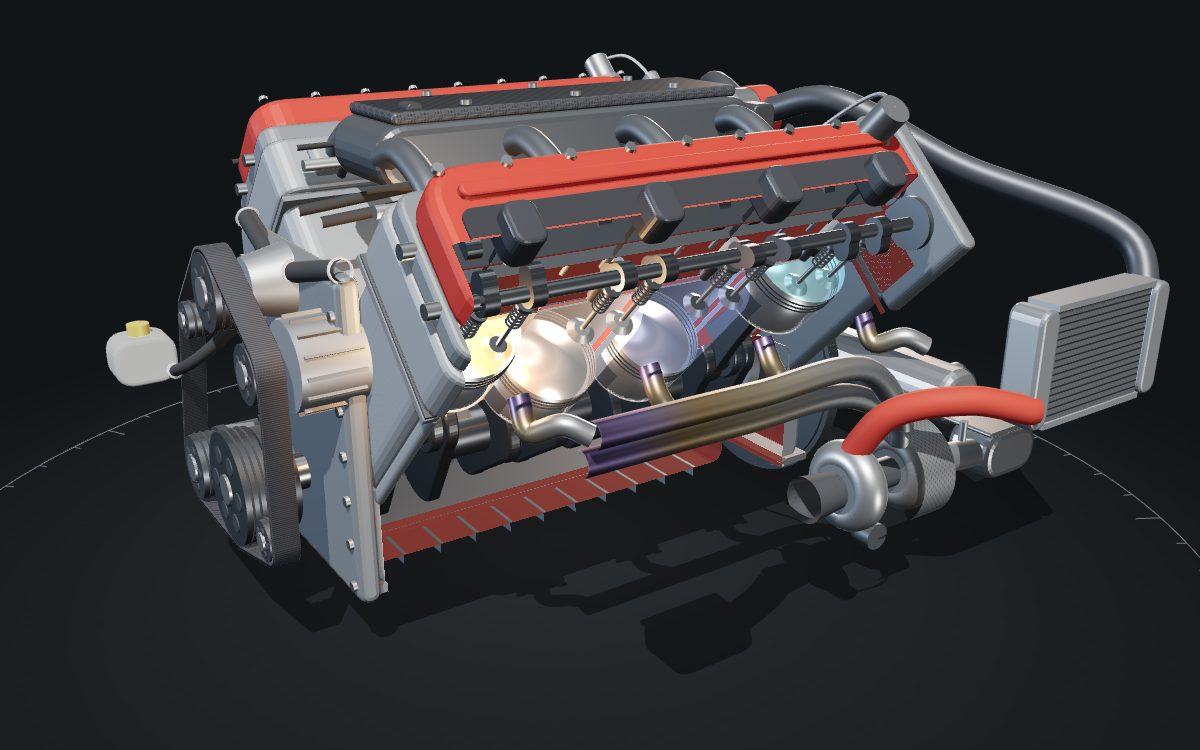
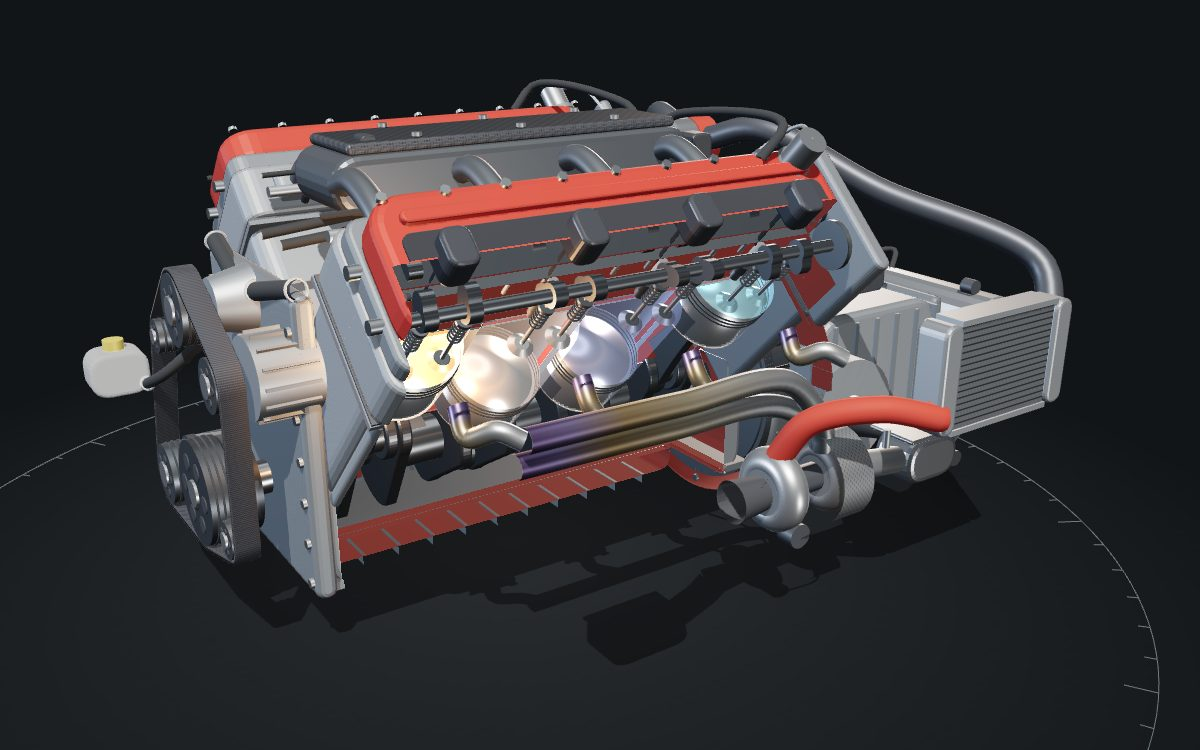
Ferrari V8: dual-clutch transaxle, cam-cover lettering, more plumbing
- 7-speed DCT casing with its own cutaway (bellhousing quarter removed to show
  the clutch pack), differential, CV shafts, hydraulic unit, oil cooler
- Raised FERRARI lettering on the red cam covers; coil harness moved inboard
- Crankcase breathers, rear coolant crossover, silencer moved behind the
  gearbox with bypass valves and twin tips
- New gearbox hotspot; flywheel view/anchor updated; wider home view
- ?debug also exposes the scene for inspection

Claude-Session: https://claude.ai/code/session_01M8DNzupjd5FubaaFBbkxo4

diff --git a/src/presentations/ferrari-v8/scene.ts b/src/presentations/ferrari-v8/scene.ts
@@ -225,7 +225,7 @@ export function buildFerrariV8({ gl, scene, quality = 'high' }: BuildContext): F
   key.position.set(-30, 70, 45);
   key.castShadow = true;
   key.shadow.mapSize.set(low ? 1024 : 2048, low ? 1024 : 2048);
-  Object.assign(key.shadow.camera, { left: -62, right: 62, top: 62, bottom: -62, near: 10, far: 200 });
+  Object.assign(key.shadow.camera, { left: -75, right: 75, top: 75, bottom: -75, near: 10, far: 220 });
   key.shadow.bias = -0.0004;
   key.shadow.normalBias = 0.04;
   root.add(key);
@@ -251,6 +251,14 @@ export function buildFerrariV8({ gl, scene, quality = 'high' }: BuildContext): F
     new THREE.Plane(V3(1, 0, 0), -XR),
   ]);
   const housing = sv.housing.bind(sv);
+  // gearbox: its own cut, the upper +z quarter of the bellhousing, to show the clutch pack
+  const svBox = new SectionView([
+    new THREE.Plane(V3(0, 0, -1), 0),
+    new THREE.Plane(V3(0, -1, 0), -1),
+    new THREE.Plane(V3(1, 0, 0), -33.5),
+    new THREE.Plane(V3(-1, 0, 0), 22),
+  ]);
+  const inBoxCut = (p: THREE.Vector3) => p.z > 0 && p.y > -1 && p.x < 33.5 && p.x > 22;
   const inCut = (p: THREE.Vector3) => p.y < p.z && p.z > 0 && p.x > -XF && p.x < XR;
 
   /* ---------- Materials ---------- */
@@ -274,6 +282,26 @@ export function buildFerrariV8({ gl, scene, quality = 'high' }: BuildContext): F
     plenum: st(std({ color: 0x3a3f44, metalness: 0.6, roughness: 0.42, bumpMap: castBump, bumpScale: 0.008 })),
     carbon: st(
       phys({ color: 0xffffff, map: carbonTex(), metalness: 0.25, roughness: 0.42, clearcoat: 1, clearcoatRoughness: 0.08 }),
+    ),
+    letters: st(
+      std({
+        color: 0xf2f2f0,
+        metalness: 0.55,
+        roughness: 0.22,
+        alphaMap: canvasTex(1024, 72, (x, w, h) => {
+          x.fillStyle = '#000';
+          x.fillRect(0, 0, w, h);
+          x.fillStyle = '#fff';
+          x.font = 'italic 700 62px Arial, Helvetica, sans-serif';
+          x.textAlign = 'center';
+          x.textBaseline = 'middle';
+          (x as CanvasRenderingContext2D & { letterSpacing: string }).letterSpacing = '28px';
+          x.fillText('FERRARI', w / 2, h / 2 + 2);
+        }),
+        alphaTest: 0.5,
+        polygonOffset: true,
+        polygonOffsetFactor: -2,
+      }),
     ),
     sump: st(std({ color: 0x6a7176, metalness: 0.6, roughness: 0.5, bumpMap: castBump, bumpScale: 0.01 })),
     machined: st(std({ color: 0xcfd3d6, metalness: 0.85, roughness: 0.28 })),
@@ -322,6 +350,7 @@ export function buildFerrariV8({ gl, scene, quality = 'high' }: BuildContext): F
     intercooler: [M.core, M.silicone],
     intake: [MS.plenum, MS.carbon],
     sump: [MS.sump],
+    gearbox: [] as THREE.MeshStandardMaterial[],
     belt: [M.belt, M.pulley, M.acc],
   };
 
@@ -516,6 +545,81 @@ export function buildFerrariV8({ gl, scene, quality = 'high' }: BuildContext): F
     mk.castShadow = false;
   }
   reg('fly', flyG);
+
+
+  /* ---------- 7-speed dual-clutch transaxle (Getrag 7DCL750 on the 488) ---------- */
+  const boxG = new THREE.Group();
+  root.add(boxG);
+  {
+    const gb = <M extends THREE.Material>(m: M) => {
+      m.clipIntersection = true;
+      svBox.material(m);
+      return m;
+    };
+    const case1 = gb(std({ color: 0x6d7479, metalness: 0.55, roughness: 0.55, bumpMap: castBump, bumpScale: 0.012 }));
+    const case2 = gb(std({ color: 0x4f565b, metalness: 0.55, roughness: 0.6, bumpMap: castBump, bumpScale: 0.012 }));
+    PART_MATS.gearbox.push(case1, case2);
+    const hb = (geo: THREE.BufferGeometry, mat: THREE.Material, x: number, y: number, z: number, cut = true) => {
+      const m = mesh(boxG, geo, mat, x, y, z);
+      if (cut) svBox.addBack(boxG, m);
+      return m;
+    };
+    // bellhousing: turned profile along x, open towards the engine
+    const prof = [
+      [12.9, 0],
+      [13.1, 0.6],
+      [12.8, 1.2],
+      [12.4, 4],
+      [11.6, 7],
+      [10.6, 9.6],
+      [10.2, 10.4],
+    ].map(([r, h]) => new THREE.Vector2(r, h));
+    hb(new THREE.LatheGeometry(prof, seg(56)).rotateZ(-PI / 2), case1, 22.8, 0, 0);
+    hb(cylX(10.4, 0.5, seg(56)), case1, 33.3, 0, 0);
+    // flange bolts to the block
+    const fb: BoltSpec[] = [];
+    for (let i = 0; i < 14; i++) {
+      const a = (i / 14) * PI * 2;
+      fb.push([23.6, 12.6 * Math.cos(a), 12.6 * Math.sin(a), 'x', 1]);
+    }
+    bolts(boxG, fb, MS.bolt);
+    // main case, differential bulge, rear cover
+    hb(rbox(19, 15, 16, 3, 0.8), case1, 43, -1.5, 0);
+    hb(cylZ(6.2, 21, seg(40)), case1, 36.6, -4.4, 0);
+    hb(rbox(1.6, 14, 15, 2.6, 0.5), case2, 53.2, -1.5, 0);
+    for (let i = 0; i < 6; i++) hb(new THREE.BoxGeometry(0.5, 13, 16.6), case2, 36 + i * 3.2, -1.5, 0, false);
+    const rb: BoltSpec[] = [];
+    for (let i = 0; i < 10; i++) {
+      const a = (i / 10) * PI * 2;
+      rb.push([54.1, -1.5 + 6 * Math.cos(a), 6.6 * Math.sin(a), 'x', 1]);
+    }
+    bolts(boxG, rb, MS.bolt);
+    // hydraulic shift / clutch control unit on top, oil cooler + lines
+    hb(rbox(9, 3.4, 7, 1, 0.4), MS.black, 45, 7.4, -1, false);
+    mesh(boxG, rbox(4, 2.2, 3, 0.6, 0.3), M.coil, 49, 9.6, -2.5);
+    tube(boxG, [[49, 9.6, -1], [51, 10.4, 2], [48, 9, 4.6]], 0.3, MS.rubber, seg(16));
+    mesh(boxG, new THREE.BoxGeometry(7, 5, 1.6), M.core, 45, 2, -9.8);
+    tube(boxG, [[41.5, 3, -9.2], [39, 5, -8], [38.5, 5.2, -7.6]], 0.3, MS.machined, 12);
+    tube(boxG, [[48.5, 1, -9.2], [50.5, 3, -8], [51, 3.4, -7.6]], 0.3, MS.machined, 12);
+    // drive shafts with CV boots
+    [1, -1].forEach((s) => {
+      mesh(boxG, cylZ(2.2, 1.6, seg(32)), MS.machined, 36.6, -4.4, s * 11.3);
+      const boot = mesh(boxG, new THREE.CylinderGeometry(1.0, 2.0, 4, seg(24)).rotateX(PI / 2), MS.rubber, 36.6, -4.4, s * 14);
+      boot.rotation.y = s > 0 ? 0 : PI;
+      mesh(boxG, cylZ(0.8, 9, seg(16)), MS.machined, 36.6, -4.4, s * 20.4);
+    });
+    // dual clutch pack inside the bellhousing (turns with the crank)
+    const cl = std({ color: 0x9ba2a7, metalness: 0.85, roughness: 0.3 });
+    mesh(flyG, cylX(9.0, 2.6, seg(56)), cl, 27.4, 0, 0);
+    mesh(flyG, cylX(6.6, 2.0, seg(48)), M.fly, 30.0, 0, 0);
+    for (let i = 0; i < 24; i++) {
+      const a = (i / 24) * PI * 2,
+        f = mesh(flyG, new THREE.BoxGeometry(2.4, 0.5, 0.3), M.coil, 27.4, 9.05 * Math.cos(a), 9.05 * Math.sin(a));
+      f.rotation.x = a;
+    }
+    mesh(flyG, cylX(2.2, 3, seg(24)), MS.machined, 32, 0, 0); // input shafts
+  }
+  reg('gearbox', boxG);
 
   /* ---------- Per-cylinder parts ---------- */
   const UP = V3(0, 1, 0);
@@ -719,6 +823,12 @@ export function buildFerrariV8({ gl, scene, quality = 'high' }: BuildContext): F
       housing(bankG[s], rbox(w - 5, 1.1, 0.8, 0.4, 0.2), MS.red, xm, y, DECK + 11.15, false),
     );
     housing(bankG[s], rbox(w - 4, 4.4, 0.4, 0.8, 0.15), MS.wrinkle, xm, 0, DECK + 11.05, false);
+    // cast lettering on the outer flank of the cover
+    {
+      const lt = mesh(bankG[s], new THREE.PlaneGeometry(16, 1.15), MS.letters, xm - 2, -I * 4.55, DECK + 11.1);
+      lt.castShadow = false;
+      if (s > 0) lt.rotation.z = PI; // read the right way round from outside the V
+    }
     const bl1: BoltSpec[] = [];
     for (let i = 0; i < 9; i++) {
       const x = x0 + 1.8 + (i * (w - 3.6)) / 8;
@@ -773,9 +883,9 @@ export function buildFerrariV8({ gl, scene, quality = 'high' }: BuildContext): F
     tube(
       bankG[s],
       [
-        [x0 + 0.5, -I * 4.4, DECK + 11.6],
-        [xm, -I * 4.5, DECK + 11.75],
-        [x1 - 1.5, -I * 4.4, DECK + 11.6],
+        [x0 + 0.5, -I * 2.75, DECK + 11.5],
+        [xm, -I * 2.8, DECK + 11.6],
+        [x1 - 1.5, -I * 2.75, DECK + 11.5],
       ],
       0.28,
       MS.rubber,
@@ -785,8 +895,8 @@ export function buildFerrariV8({ gl, scene, quality = 'high' }: BuildContext): F
       tube(
         bankG[s],
         [
-          [c.x + 0.6, -I * 4.4, DECK + 11.7],
-          [c.x + 0.3, -I * 3.2, DECK + 12.2],
+          [c.x + 0.8, -I * 2.75, DECK + 11.6],
+          [c.x + 0.4, -I * 2.4, DECK + 12.0],
           [c.x, -I * 2.0, DECK + 11.8],
         ],
         0.16,
@@ -932,14 +1042,16 @@ export function buildFerrariV8({ gl, scene, quality = 'high' }: BuildContext): F
     mesh(g, rbox(7.6, 0.4, 5.4, 1.2, 0.15), M.shield, 31.5, TY + 0.4, s * (TZ - 2));
     // O2 sensors
     mesh(g, cylY(0.35, 1.8, 10), MS.machined, 26, TY + 0.8, s * (TZ - 1));
-    tube(g, [[35, TY - 2.2, s * (TZ - 2)], [38, TY - 3, s * (TZ - 6)], [40, TY - 3.5, s * 12]], 1.1, M.cat, seg(20));
+    tube(g, [[35, TY - 2.2, s * (TZ - 2)], [44, -1.5, s * 20], [52, 1, s * 14], [56, 2, s * 9]], 1.1, M.cat, seg(30));
   });
   {
-    const muf = mesh(exhaustG[1], rbox(6, 6, 26, 2.5, 0.9), M.cat, 41, -4, 0);
+    // rear silencer sits behind the gearbox, with bypass valves and twin tips
+    const muf = mesh(exhaustG[1], rbox(6.4, 7, 24, 2.6, 0.9), M.cat, 59, 2, 0);
     reg('exhaust', muf);
     [1, -1].forEach((s) => {
-      mesh(exhaustG[1], cylX(1.5, 4, seg(28)), MS.machined, 45.5, -4.6, s * 7);
-      mesh(exhaustG[1], new THREE.CylinderGeometry(1.5, 1.5, 0.3, seg(28), 1, true).rotateZ(PI / 2), std({ color: 0x111111, side: THREE.DoubleSide }), 47.6, -4.6, s * 7);
+      mesh(exhaustG[1], cylX(1.7, 4.4, seg(28)), MS.machined, 64, 1.6, s * 6.5);
+      mesh(exhaustG[1], new THREE.CylinderGeometry(1.7, 1.7, 0.3, seg(28), 1, true).rotateZ(PI / 2), std({ color: 0x111111, side: THREE.DoubleSide }), 66.3, 1.6, s * 6.5);
+      mesh(exhaustG[1], cylZ(0.9, 1.6, 16), M.boost, 58, 6.2, s * 8); // bypass valve actuator
     });
   }
   BANKS.forEach((s) => {
@@ -1072,6 +1184,21 @@ export function buildFerrariV8({ gl, scene, quality = 'high' }: BuildContext): F
     mesh(caseG, cylY(0.9, 0.9, 20), M.yellow, -33, 10.4, -12);
     hose(caseG, [[-31, 6.5, -11], [-30, 9, -6], [BELT_X + 4, PUL.wp.y - 1.5, -1.5]], 0.5);
   }
+  // crankcase breathers: cam covers → intake
+  BANKS.forEach((s) => {
+    const I = IN[s];
+    tube(
+      caseG,
+      [bp(s, 13, I * 4.6, DECK + 11.3), bp(s, 15.5, I * 6.5, DECK + 13), [17, 28.6, s * 4.4], [16.6, 27.9, s * 2.6]],
+      0.42,
+      MS.rubber,
+      seg(24),
+    );
+  });
+  // coolant crossover at the rear of the V + thermostat housing
+  mesh(caseG, cylX(1.3, 3, seg(20)), MS.cast, 22.6, 20, 0);
+  hose(caseG, [[22.6, 20, 1.3], [22.8, 19.6, 6], bp(1, 21.4, 4, DECK + 1.5)], 0.6);
+  hose(caseG, [[22.6, 20, -1.3], [22.8, 19.6, -6], bp(-1, 21.4, -4, DECK + 1.5)], 0.6);
   // engine harness along the valley
   tube(caseG, [[-22, 20.6, 2.4], [-8, 21.6, 2.6], [8, 21.6, 2.6], [20, 20.6, 2.4], [24, 16, 4]], 0.45, MS.rubber, seg(40));
   tube(caseG, [[-22, 20.6, -2.4], [-8, 21.6, -2.6], [8, 21.6, -2.6], [20, 20.6, -2.4]], 0.45, MS.rubber, seg(40));
@@ -1118,7 +1245,7 @@ export function buildFerrariV8({ gl, scene, quality = 'high' }: BuildContext): F
 
   // collapse static geometry into one mesh per material and part (≈ a third of the draw calls)
   const moving = (o: THREE.Object3D) => !!(o.userData.moving || o.userData.aid);
-  [caseG, sumpG, intakeG, flyG, frontG, cranks.flat, cranks.cross, ...BANKS.flatMap((s) => [bankG[s], blockG[s], exhaustG[s], coolerG[s]])].forEach(
+  [caseG, sumpG, intakeG, flyG, frontG, boxG, cranks.flat, cranks.cross, ...BANKS.flatMap((s) => [bankG[s], blockG[s], exhaustG[s], coolerG[s]])].forEach(
     (g) => mergeStatic(g, pickables, moving),
   );
   // ...and inside each moving sub-assembly
@@ -1181,6 +1308,7 @@ export function buildFerrariV8({ gl, scene, quality = 'high' }: BuildContext): F
     intakeG.position.y = ex * 14;
     sumpG.position.y = -ex * 6;
     flyG.position.x = ex * 8;
+    boxG.position.x = ex * 20;
     frontG.position.x = -ex * 8;
     let fire: CylState | null = null;
     for (const c of cyl) {
@@ -1253,7 +1381,10 @@ export function buildFerrariV8({ gl, scene, quality = 'high' }: BuildContext): F
       { id: 'xray', label: 'X-ray', revealsInternals: true },
     ],
     defaultMode: 'cut',
-    setMode: (id) => sv.apply(id as SectionMode),
+    setMode: (id) => {
+      sv.apply(id as SectionMode);
+      svBox.apply(id as SectionMode);
+    },
     highlight(k) {
       Object.entries(PART_MATS).forEach(([p, ms]) => ms.forEach((m) => m.emissive.setHex(p === k ? 0x110c04 : 0x000000)));
       aidsOn = k === 'crank';
@@ -1262,7 +1393,7 @@ export function buildFerrariV8({ gl, scene, quality = 'high' }: BuildContext): F
       if (!visibleChain(h.object)) return false;
       if (mode !== 'cut') return true;
       const clipped = !!((h.object as THREE.Mesh).material as THREE.Material).clippingPlanes;
-      return !(clipped && inCut(h.point));
+      return !(clipped && (inCut(h.point) || inBoxCut(h.point)));
     },
     tags: cyl.map((c) => ({
       id: String(c.n),

diff --git a/src/presentations/ferrari-v8/content.ts b/src/presentations/ferrari-v8/content.ts
@@ -7,7 +7,7 @@ const pv = (t: Vec3, p: Vec3, k = 1.9): CameraView => ({
   position: [t[0] + (p[0] - t[0]) * k, t[1] + (p[1] - t[1]) * k, t[2] + (p[2] - t[2]) * k],
 });
 
-export const HOME_VIEW: CameraView = { target: [-3, 5, 1], position: [-63, 45, 89] };
+export const HOME_VIEW: CameraView = { target: [6, 4, 2], position: [-62, 50, 104] };
 
 const STROKE_M = 0.083,
   R_M = 0.0415;
@@ -217,17 +217,33 @@ export function makeParts(sim: FerrariV8Sim): PartInfo[] {
     },
     {
       id: 'fly',
+      internal: true,
       group: 'Transmisie',
-      name: 'Volantă',
-      lead: 'Netezește impulsurile de cuplu și transmite rotația spre cutia de viteze.',
-      body: 'Cu patru aprinderi pe rotație, impulsurile se suprapun mult, așa că volanta poate fi ușoară, ceea ce ajută motorul să urce rapid în turație. În spatele ei, pe 488 GTB, vine o cutie cu dublu ambreiaj cu 7 trepte.',
+      name: 'Volantă și ambreiaje',
+      lead: 'Netezește impulsurile de cuplu și transmite rotația spre pachetul de ambreiaje.',
+      body: 'Cu patru aprinderi pe rotație, impulsurile se suprapun mult, așa că volanta poate fi ușoară, ceea ce ajută motorul să urce rapid în turație. Lângă ea, în clopotul cutiei, stă pachetul celor două ambreiaje (secționat în modul Secțiune).',
       specs: [
         ['Aprinderi pe rotație', '4'],
         ['Turație maximă', '8000 rpm'],
         ['Turație', live.rpm],
       ],
-      view: pv([25, 0, 0], [54, 12, 26]),
-      anchor: (o) => o.set(24.9 + ex() * 8, 9.6, 0),
+      view: { target: [27, 3, 5], position: [37, 1, 50] },
+      anchor: (o) => o.set(27.4 + ex() * 8, 6.4, 6.4),
+    },
+    {
+      id: 'gearbox',
+      group: 'Transmisie',
+      name: 'Cutie cu dublu ambreiaj',
+      lead: 'Cutie cu 7 trepte și două ambreiaje umede, legată direct în spatele motorului.',
+      body: 'Un ambreiaj ține treptele impare, celălalt pe cele pare. În timp ce mergi într-o treaptă, următoarea e deja cuplată pe celălalt ax, iar schimbarea înseamnă doar trecerea cuplului de pe un ambreiaj pe altul, în câteva sutimi de secundă și fără întreruperea tracțiunii. Diferențialul e în aceeași carcasă, iar planetarele ies lateral spre roțile din spate.',
+      specs: [
+        ['Trepte', '7, dublu ambreiaj umed'],
+        ['Furnizor (488 GTB)', 'Getrag 7DCL750'],
+        ['Comandă', 'electro-hidraulică'],
+        ['Turație ax de intrare', live.rpm],
+      ],
+      view: { target: [42, 1, 0], position: [70, 38, 54] },
+      anchor: (o) => o.set(44 + ex() * 20, 6, 8),
     },
   ];
 }

diff --git a/src/framework/SceneRuntime.tsx b/src/framework/SceneRuntime.tsx
@@ -122,11 +122,12 @@ export function SceneRuntime<P>({ module, live, overlays, cameraApi, onReady, on
       Object.assign(window, {
         __mpSetView: (v: CameraView) => cameraApi.current?.setView(v, { instant: true }),
         __mpInfo: () => ({ ...gl.info.render, dpr: gl.getPixelRatio() }),
+        __mpScene: scene,
       });
     return () => {
       cameraApi.current = null;
     };
-  }, [cam, cameraApi, live, gl]);
+  }, [cam, cameraApi, live, gl, scene]);
 
   // Click picking (ignores drags).
   useEffect(() => {

diff --git a/src/presentations/ferrari-v8/index.ts b/src/presentations/ferrari-v8/index.ts
@@ -16,7 +16,7 @@ const ferrariV8: PresentationModule<FerrariV8Params> = {
     colorManagement: false,
   },
   initialParams: { rpm: 3000, slowIdx: 1, crank: 'flat' },
-  thumbnailView: { target: [2, 4, 4], position: [-52, 40, 84] },
+  thumbnailView: { target: [8, 4, 4], position: [-52, 42, 92] },
   build: buildFerrariV8,
   Hud: FerrariV8Hud,
   Controls: FerrariV8Controls,
